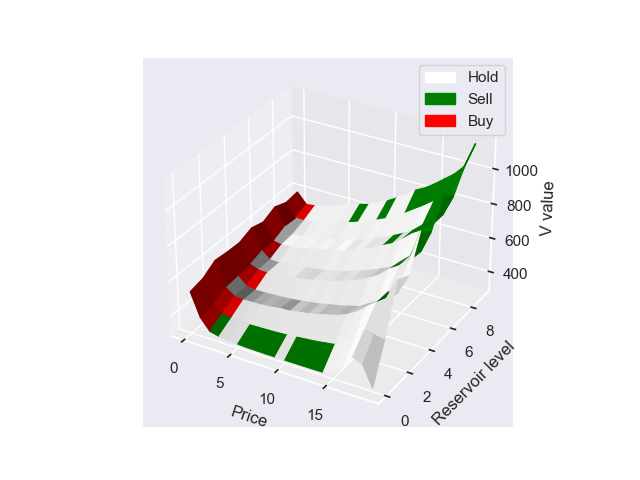
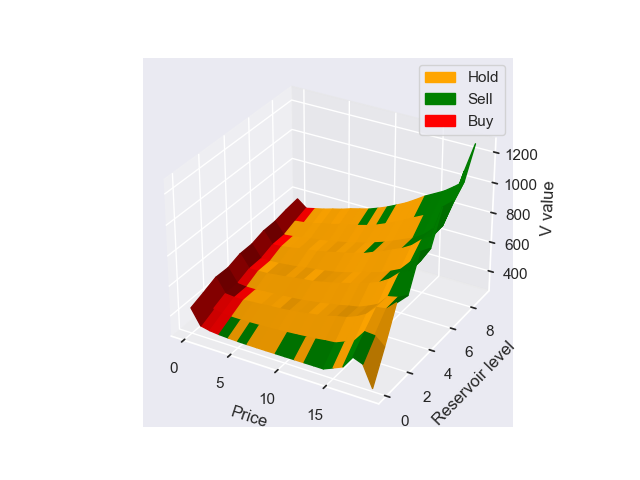
update plots

Changed region(s): [[0.2812, 0.3125, 0.75, 0.8125], [0.7812, 0.3125, 0.8438, 0.5312], [0.6562, 0.125, 0.7188, 0.1875]]

diff --git a/src/agent.py b/src/agent.py
@@ -220,7 +220,7 @@ class QLearnAgent:
         # plot
         fig = plt.figure()
         ax = fig.add_subplot(111, projection="3d")
-        colors = {0: "white", 1: "green", 2: "red"}
+        colors = {0: "orange", 1: "green", 2: "red"}
         z_action = np.vectorize(colors.get)(z_action)
         ax.plot_surface(x, y, z, facecolors=z_action)
         # set labels for colors

diff --git a/run.py b/run.py
@@ -26,7 +26,7 @@ if __name__ == "__main__":
     epsilon_decay = False
     epsilon = 0.8  # overriden if epsilon_decay is True
     alpha = 0.1
-    n_episodes = 500
+    n_episodes = 5000
     random_startpoint = False
     start_amount = 0.5
 
